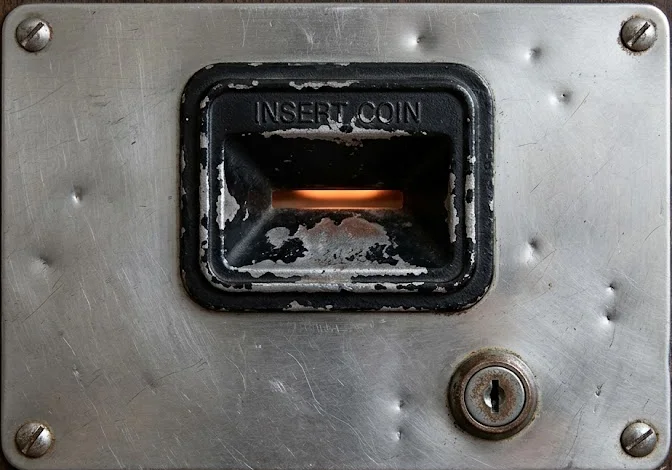
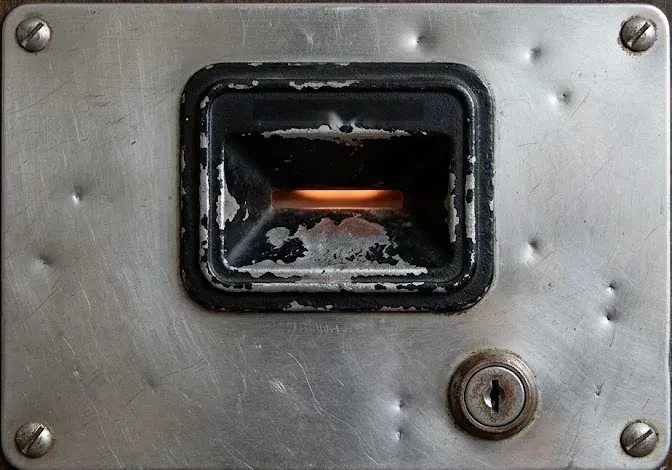
borne : la Koin se paie au premier geste de jeu, zapper reste gratuit ; gravure INSERT COIN effacée de la fente du bois ; SkopoRhogo en DM Mono ; visite complète des psychopompes, autocollant Lore compris (borne-arcade.js, borne-build.py, index.html, skoporhogo-borne.html, skin-bois-porte.webp)
Claude-Session: https://claude.ai/code/session_01Ba3adjWJSNzDCwtJLb2mEv

Changed region(s): [[0.375, 0.2085, 0.625, 0.2681]]

diff --git a/borne/index.html b/borne/index.html
@@ -1906,7 +1906,7 @@ window.addEventListener('storage',e=>{if(!e.key||e.key.startsWith('ik.'))syncKoi
 setInterval(syncKoins,1500);syncKoins();
 $('kal').onclick=()=>go('kal');   // 3615Koins : connexion directe au service KOINS (+1 par connexion)
 /* the Korhogo games: one Koin to open, two for a win */
-const _openGame=openGame;openGame=function(k,title){if(k!=='kapture'&&k!=='vhs'&&!pay()){syncKoins();$('kal').classList.remove('pay');void $('kal').offsetWidth;$('kal').classList.add('pay');return;}_openGame(k,title);};
+const _openGame=openGame;openGame=function(k,title){if(k!=='kapture'&&k!=='vhs'&&!(koins>0&&window.__bornePayLater?(window.__bornePayLater(pay),true):pay())){syncKoins();$('kal').classList.remove('pay');void $('kal').offsetWidth;$('kal').classList.add('pay');return;}_openGame(k,title);};
 /* a win rains Koins over the game, then they pour into the counter */
 function koinRain(){if(matchMedia('(prefers-reduced-motion:reduce)').matches)return;const N=touchDev?16:26;
   for(let i=0;i<N;i++){const c=document.createElement('span');c.className='kdrop';c.textContent='◉';const x=Math.random()*innerWidth,sz=12+Math.random()*16,d=900+Math.random()*900,dl=Math.random()*700;
@@ -2103,7 +2103,7 @@ const _build=buildLobby;buildLobby=function(){_build();const r=loadRun();const b
   async function tour(resume){if(touring)return;touring=true;window.__borneTour=1;idleT=Infinity;ac();const W=ms=>new Promise(r=>setTimeout(r,ms));
     const cabs=[...home.querySelectorAll('.cabinets .cab')],chips=[...home.querySelectorAll('.menu a:not(.b-ab),.menu button')];
     /* every visit goes through the tiles and menus in a random order */
-    let stops;if(resume&&resume.length)stops=resume;else{stops=cabs.concat(chips,[document.getElementById('radio-toggle')||document.querySelector('.motel-bar'),$('kapture')].filter(Boolean));for(let i=stops.length-1;i>0;i--){const j=Math.floor(Math.random()*(i+1));[stops[i],stops[j]]=[stops[j],stops[i]];}}
+    let stops;if(resume&&resume.length)stops=resume;else{stops=cabs.concat(chips,[document.getElementById('radio-toggle')||document.querySelector('.motel-bar'),$('kapture'),document.querySelector('.b-lore')].filter(Boolean));for(let i=stops.length-1;i>0;i--){const j=Math.floor(Math.random()*(i+1));[stops[i],stops[j]]=[stops[j],stops[i]];}}
     if(!(resume&&resume.length)&&window.__borneFirst){const F=window.__borneFirst();stops=stops.filter(x=>F.indexOf(x)<0);stops.splice(1+Math.floor(Math.random()*stops.length),0,F[1]);stops.unshift(F[0]);}
     TQ=stops;
     const L=SAY[LANG]||SAY.en;

diff --git a/borne/borne-arcade.js b/borne/borne-arcade.js
@@ -119,3 +119,14 @@ addEventListener('keydown',function(e){var r=document.documentElement;if(r.datas
   if(e.key==='ArrowRight'||e.key==='ArrowDown'){e.preventDefault();window.__borneMark(1);}
   else if(e.key==='ArrowLeft'||e.key==='ArrowUp'){e.preventDefault();window.__borneMark(-1);}
   else if(e.key==='Enter'&&document.querySelector('.b-panel .cab.b-sel')){e.preventDefault();window.__borneA();}});
+/* la Koin se paie au premier geste de jeu dans l'écran (toucher, clic, touche du clavier) ; zapper d'un écran-titre à l'autre reste gratuit */
+(function(){var pend=null,prog='';
+  window.__bornePayLater=function(pay){pend=pay;prog='';setTimeout(function(){prog=(window.__borneCur&&window.__borneCur())||'';},300);};
+  function hit(e){if(!pend)return;var cur=(window.__borneCur&&window.__borneCur())||'';if(prog&&cur!==prog){pend=null;return;}
+    if(e.type==='keydown'&&/^(Escape|PageUp|PageDown|Tab|Shift|Control|Alt|Meta)$/.test(e.key))return;
+    var g=document.querySelector('.b-glass');if(e.type==='pointerdown'&&!(g&&(g.contains(e.target)||e.target.tagName==='IFRAME')))return;
+    var p=pend;pend=null;try{p();}catch(_){}}
+  document.addEventListener('pointerdown',hit,true);document.addEventListener('keydown',hit,true);
+  setInterval(function(){if(!pend)return;var r=document.documentElement;if(!r.dataset.prog)pend=null;else{var cur=(window.__borneCur&&window.__borneCur())||'';if(prog&&cur!==prog)pend=null;}},300);
+  /* les gestes à l'intérieur des jeux en cadre comptent aussi */
+  setInterval(function(){document.querySelectorAll('.b-glass iframe').forEach(function(f){try{var d=f.contentDocument;if(d&&!d._bpay){d._bpay=1;d.addEventListener('pointerdown',function(){if(pend){var p=pend;pend=null;try{p();}catch(_){}}},true);d.addEventListener('keydown',function(e){if(pend&&!/^(Escape|Tab)$/.test(e.key)){var p=pend;pend=null;try{p();}catch(_){}}},true);}}catch(_){}});},1000);})();

diff --git a/borne/skoporhogo-borne.html b/borne/skoporhogo-borne.html
@@ -13,7 +13,7 @@
   :root{ --k:#000; --w:#fff; }
   *{ box-sizing:border-box; }
   html,body{ margin:0; height:100%; background:var(--k); color:var(--w);
-    font-family:'VT323',ui-monospace,Menlo,Consolas,monospace; font-size:20px; line-height:1.1; }
+    font-family:'DM Mono',ui-monospace,Menlo,Consolas,monospace; font-size:20px; line-height:1.1; }
   body{ display:flex; flex-direction:column; min-height:100vh; }
   header{ display:flex; align-items:center; gap:14px; padding:8px 16px; border-bottom:2px solid var(--w); flex-wrap:wrap; }
   #speeds{ display:flex; gap:6px; flex-wrap:wrap; }

diff --git a/borne/borne-build.py b/borne/borne-build.py
@@ -71,6 +71,10 @@ s = once(s, "chips=[...home.querySelectorAll('.menu a,.menu button')]", "chips=[
 # la démo de la borne attend la fin de la visite des psychopompes
 s = once(s, "if(touring)return;touring=true;", "if(touring)return;touring=true;window.__borneTour=1;")
 s = once(s, "function stop(){if(!touring)return;touring=false;", "function stop(){if(!touring)return;touring=false;window.__borneTour=0;")
+# la Koin se paie au premier geste de jeu, pas à l'arrivée sur l'écran-titre (zapper reste gratuit)
+s = once(s, "if(k!=='kapture'&&k!=='vhs'&&!pay()){", "if(k!=='kapture'&&k!=='vhs'&&!(koins>0&&window.__bornePayLater?(window.__bornePayLater(pay),true):pay())){")
+# visite complète : les psychopompes passent aussi par l'autocollant Lore (sa réplique « lore » vient de SAY)
+s = once(s, "[document.getElementById('radio-toggle')||document.querySelector('.motel-bar'),$('kapture')].filter(Boolean)", "[document.getElementById('radio-toggle')||document.querySelector('.motel-bar'),$('kapture'),document.querySelector('.b-lore')].filter(Boolean)")
 wr("index.html", s)
 
 k = rd("skoporhogo.html")
@@ -127,6 +131,8 @@ k2 = rd("skoporhogo-borne.html")
 k2 = k2.replace("if(e.key==='Escape'&&selected>=0) select(selected);", "if(e.key==='Escape'&&selected>=0){ e.preventDefault(); select(selected); }")
 # à l'accueil, la molette fait défiler la page ; SkopoRhogo zoome à la molette avec Ctrl, ou dans le programme ouvert
 k2 = k2.replace("view.addEventListener('wheel',e=>{ e.preventDefault();", "view.addEventListener('wheel',e=>{ if(/attract=1/.test(location.search)&&!e.ctrlKey)return; e.preventDefault();", 1)
+# SkopoRhogo suit la charte : DM Mono à la place de VT323 (police chargée de Google Fonts, absente en ligne)
+k2 = k2.replace("'VT323'", "'DM Mono'").replace('"VT323"', '"DM Mono"')
 wr("skoporhogo-borne.html", k2)
 # FotoFauna : le logo déclenche, caméra avant ou arrière, pile et pellicule (borne-fotofauna.js, borne-fotofauna.css)
 cap("fotofauna.html", 'getUserMedia({video:{facingMode:"user",width:{ideal:1280}},audio:false})', 'getUserMedia({video:{facingMode:(window.__ffFacing||"user"),width:{ideal:1280}},audio:false})')
